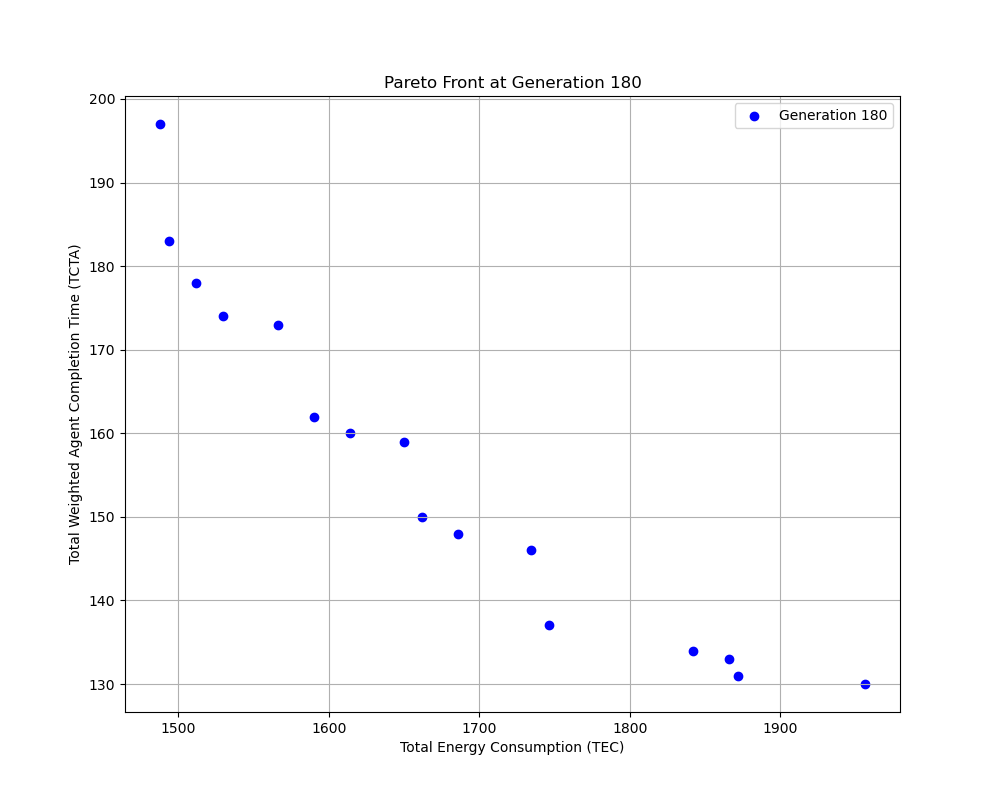
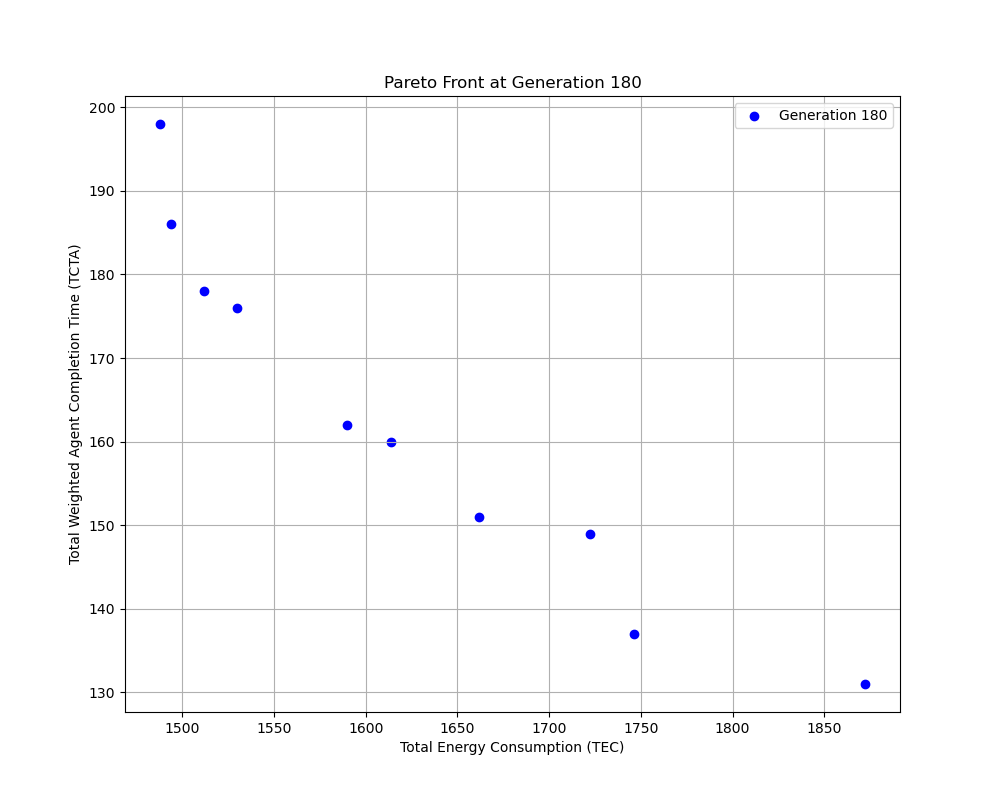
big change for frame

diff --git a/main_algorithm.py b/main_algorithm.py
@@ -57,52 +57,45 @@ class EvolutionaryAlgorithm:
             
             # 判断是否进入精修阶段
             if gen >= self.polishing_phase_start_gen:
-                # 精修阶段: 对当前种群中的每个个体应用强大的局部搜索算子
+                # 精修阶段: 概率性地对种群中的个体应用强大的局部搜索算子
                 polished_offspring = []
                 alpha = self.prob_params.get('destroy_rebuild_alpha', 0.5)
+                prob_polish = self.prob_params.get('prob_polish', 0.4)
                 
-                print(f"精修阶段: 对 {len(self.population)} 个个体应用 Destroy & Rebuild + Right Shift (alpha={alpha})...")
-                for i, parent_sol in enumerate(self.population):
-                    neh_optimized_sol = self.ls_toolkit.destroy_rebuild(parent_sol, alpha)
-                    final_sol = self.ls_toolkit.right_shift(neh_optimized_sol)
-                    polished_offspring.append(final_sol)
+                print(f"精修阶段: 以 {prob_polish*100}% 的概率对个体应用 Destroy & Rebuild + Right Shift...")
+                
+                for parent_sol in self.population:
+                    if np.random.rand() < prob_polish:
+                        # 应用强力优化算子组合
+                        neh_optimized_sol = self.ls_toolkit.destroy_rebuild(parent_sol, alpha)
+                        final_sol = self.ls_toolkit.right_shift(neh_optimized_sol)
+                        polished_offspring.append(final_sol)
+                    else:
+                        # 未被选中的直接进入下一代
+                        polished_offspring.append(parent_sol.copy())
 
-                # 用精修后的解更新外部存档
+                # 用精修后的新解更新外部存档 (注意, polished_offspring中包含了未改变的个体)
                 self._update_archive(polished_offspring)
 
-                # 合并父代与子代种群
-                combined_population = self.population + polished_offspring
+                # 环境选择: 直接将精修/幸存的个体作为新种群
+                # 因为这里的目标是提纯, 而不是扩大搜索, 所以不与父代合并
+                self.population = remove_duplicates(polished_offspring)
                 
-                # 去重
-                deduplicated_population = remove_duplicates(combined_population)
-                
-                print(f"合并与去重: {len(combined_population)} -> {len(deduplicated_population)} 个独特解")
-
-                # NSGA-II 精英选择
-                fronts = non_dominated_sort(deduplicated_population)
-                self.population = selection(fronts, self.pop_size)
-                
-                print(f"精英选择完成, 新种群大小: {len(self.population)}")
+                print(f"精英提纯完成, 新种群大小: {len(self.population)}")
                 print("-" * 50)
             else:
+                # 常规进化阶段
                 offspring_population = self._generate_offspring(gen)
-
-                # 步骤B: 评估子代
-                for sol in offspring_population:
-                    self.decoder.decode(sol)
                 
-                # 步骤B.1: 更新外部存档
+                # 2. 更新外部存档
                 self._update_archive(offspring_population)
-
-                # 步骤C: 合并父代与子代
-                combined_population = self.population + offspring_population
                 
-                # 步骤C.1: 移除重复解
+                # 3. 环境选择 (合并父子代, 去重, NSGA-II选择)
+                combined_population = self.population + offspring_population
                 unique_population = remove_duplicates(combined_population)
-
-                # 步骤D: NSGA-II 环境选择
                 fronts = non_dominated_sort(unique_population)
                 self.population = selection(fronts, self.pop_size)
+
 
             # 定期绘制和保存帕累托前沿图
             if self.plot_params and self.plot_params.get('plot_frequency', 0) > 0 and (gen + 1) % self.plot_params['plot_frequency'] == 0:
@@ -144,73 +137,61 @@ class EvolutionaryAlgorithm:
         self.archive = list(phenotype_unique_solutions.values())
 
     def _generate_offspring(self, current_gen: int) -> List[Solution]:
-        """通过调用工具箱中的算子来生成子代
-           概率性地选择不同的算子
-           注意是两阶段的 第一阶段进行繁殖和改进 第二阶段注入多样性
-            
-        Args:
-            current_gen (int): 当前代数
-
-        Returns:
-            List[Solution]: 生成的子代种群
         """
-        # 动态步长计算
-        progress = current_gen / self.max_generations
+        通过标准的进化流程(交配池、交叉、变异)生成并评估子代种群
+        """
+        # 动态步长
+        progress = current_gen / self.max_generations if self.max_generations > 0 else 0
         bfo_params = self.bfo_toolkit.params
         c_initial = bfo_params.get('C_initial', 0.1)
         c_final = bfo_params.get('C_final', 0.01)
         current_step_size = c_initial - (c_initial - c_final) * progress
-
-        # 定义算子概率
-        prob_crossover = self.prob_params.get('prob_crossover', 0.4)
-        prob_chemotaxis = self.prob_params.get('prob_chemotaxis', 0.2)
-        prob_prefer_agent = self.prob_params.get('prob_prefer_agent', 0.2)
-        prob_right_shift = self.prob_params.get('prob_right_shift', 0.2)
         
-        temp_offspring = []
-        while len(temp_offspring) < self.pop_size:
-            
-            rand_num = np.random.rand()
-            
-            # 交叉操作 (生成两个子代)
-            if rand_num < prob_crossover:
-                p1 = tournament_selection(self.population)
-                p2 = tournament_selection(self.population)
-                child1, child2 = self.bfo_toolkit.reproduction_crossover(p1, p2)
-                temp_offspring.extend([child1, child2])
-            
-            # 趋向操作
-            elif rand_num < prob_crossover + prob_chemotaxis:
-                p1 = tournament_selection(self.population)
-                child = self.bfo_toolkit.chemotaxis(p1, current_step_size)
-                temp_offspring.append(child)
-            
-            # 优势代理优化 (TCTA偏向)
-            elif rand_num < prob_crossover + prob_chemotaxis + prob_prefer_agent:
-                parent = tournament_selection(self.population)
-                child = self.ls_toolkit.prefer_agent(parent)
-                temp_offspring.append(child)
+        # 算子概率
+        prob_crossover = self.prob_params.get('prob_crossover', 0.9)
+        prob_mutation = self.prob_params.get('prob_mutation', 0.2)
+        
+        # 定义好用的轻量级局部搜索/变异算子集合
+        mutation_operators = [
+            lambda sol: self.bfo_toolkit.chemotaxis(sol, current_step_size),
+            self.ls_toolkit.right_shift,
+            self.ls_toolkit.prefer_agent
+        ]
 
-            # 右移优化 (TEC偏向)
-            elif rand_num < prob_crossover + prob_chemotaxis + prob_prefer_agent + prob_right_shift:
-                parent = tournament_selection(self.population)
-                child = self.ls_toolkit.right_shift(parent)
-                temp_offspring.append(child)
-            
+        # 1. 选择: 创建交配池
+        mating_pool = [tournament_selection(self.population) for _ in range(self.pop_size)]
+        
+        # 2. 繁殖: 交叉与变异
+        offspring_from_reproduction = []
+        i = 0
+        while len(offspring_from_reproduction) < self.pop_size:
+            p1 = mating_pool[i]
+            # 确保有p2, 即使种群大小为奇数
+            p2 = mating_pool[i + 1] if i + 1 < self.pop_size else mating_pool[0]
+            i = (i + 2) % self.pop_size # 循环使用交配池
+
+            # 交叉
+            if np.random.rand() < prob_crossover:
+                c1, c2 = self.bfo_toolkit.reproduction_crossover(p1, p2)
             else:
-                p1 = tournament_selection(self.population)
-                child = self.bfo_toolkit.chemotaxis(p1, current_step_size)
-                temp_offspring.append(child)
+                c1, c2 = p1.copy(), p2.copy()
+            
+            # 变异
+            for child in [c1, c2]:
+                if np.random.rand() < prob_mutation:
+                    # 随机选择一个变异算子进行深度优化
+                    operator = np.random.choice(mutation_operators)
+                    mutated_child = operator(child)
+                    offspring_from_reproduction.append(mutated_child)
+                else:
+                    offspring_from_reproduction.append(child)
 
         # 确保种群大小精确
-        temp_offspring = temp_offspring[:self.pop_size]
-        
-        # 在生成后, 需要先对这个临时种群进行评估, 以便迁徙算子使用
-        for sol in temp_offspring:
-            self.decoder.decode(sol)
+        offspring_population = offspring_from_reproduction[:self.pop_size]
 
-        # 多样性注入
-        # 将整个临时子代种群送入种群级别的迁徙算子
-        final_offspring = self.bfo_toolkit.migration(temp_offspring)
-        
-        return final_offspring
+        # 3. 评估
+        for sol in offspring_population:
+            if sol.objectives is None:
+                self.decoder.decode(sol)
+
+        return offspring_population

diff --git a/operators.py b/operators.py
@@ -16,38 +16,38 @@ class BFO_Operators:
         
     def chemotaxis(self, parent_solution: Solution, current_step_size: float) -> Solution:
         """
-        趋向操作: 以一个父代解为起点, 进行Mmax步的局部搜索, 返回最终找到的解
-
-        Args:
-            parent_solution (Solution): 父代解
-            current_step_size (float): 当前步长
-
-        Returns:
-            Solution: 最终找到的解
+        趋向操作: 以一个父代解为起点, 进行Mmax步的迭代局部搜索, 返回最终找到的最优解.
+        这是一个迭代改进的过程, 每一步都在当前找到的最优解的基础上进行探索.
         """
         m_max = self.params.get('Mmax', 10)
         put_off_mutation_prob = self.params.get('put_off_mutation_prob', 0.1)
         put_off_mutation_strength = self.params.get('put_off_mutation_strength', 1)
         put_off_regression_prob = self.params.get('put_off_regression_prob', 0.7)
 
-        current_sol = parent_solution.copy()
+        # 1. 初始化: 当前最优解就是父代
+        current_best_sol = parent_solution.copy()
+        # 确保初始解已被评估
+        if current_best_sol.objectives is None:
+            self.decoder.decode(current_best_sol)
         
-        # BFO的位置编码, 仅在此算子内部临时使用
+        # BFO的位置编码, 用于探索邻域
         positions = np.random.uniform(-1, 1, size=(self.problem.num_jobs, 2))
         
+        # 2. 迭代搜索
         for _ in range(m_max):
-            original_sol = current_sol.copy()
-            
-            # 1. 生成一个候选解
-            # 1a. 翻滚与游泳, 生成新序列
+            # 2a. 生成一个基于当前最优解的候选解
+            # 翻滚与游泳, 生成新序列 (探索邻域)
             theta = np.random.uniform(0, 2 * np.pi, self.problem.num_jobs)
             deta = np.column_stack([np.cos(theta), np.sin(theta)])
-            positions += current_step_size * deta
-            distances = np.linalg.norm(positions, axis=1)
+            new_positions = positions + current_step_size * deta
+            
+            # 使用新的位置向量生成序列. 注意: 我们这里不直接使用 new_sequence = np.argsort(distances)
+            # 而是继续使用 BFO 思想, 从 new_positions 生成序列, 这样可以保留方向信息.
+            distances = np.linalg.norm(new_positions, axis=1)
             new_sequence = np.argsort(distances)
             
-            # 1b. 有偏向性地扰动put_off矩阵
-            new_put_off = current_sol.put_off.copy()
+            # 有偏向性地扰动put_off矩阵
+            new_put_off = current_best_sol.put_off.copy() # 从当前最优解的put_off开始
             if np.random.rand() < put_off_mutation_prob:
                 for _ in range(put_off_mutation_strength):
                     job_idx = np.random.randint(self.problem.num_jobs)
@@ -58,18 +58,18 @@ class BFO_Operators:
                     else:
                         new_put_off[job_idx, machine_idx] += 1
                         
-            # 构造并评估候选解 (final_schedule=None), 激活put_off
+            # 构造并评估候选解
             trial_sol = Solution(sequence=new_sequence, put_off=new_put_off, final_schedule=None)
             self.decoder.decode(trial_sol)
 
-            # 2. 基于Pareto支配关系决定是否接受移动
-            if not is_dominated(current_sol, trial_sol):
-                # 如果新解支配当前解, 则接受新解
-                current_sol = trial_sol
-            else:
-                positions -= current_step_size * deta
+            # 2b. 基于Pareto支配关系决定是否接受移动
+            # 如果候选解支配当前最优解, 则更新最优解和探索位置
+            if is_dominated(trial_sol, current_best_sol):
+                current_best_sol = trial_sol
+                positions = new_positions # 接受移动, 更新探索的中心点
+            # 否则, 不更新, 留在原地, positions不变, 在下一次循环从原位置继续探索
             
-        return current_sol
+        return current_best_sol
     
     def reproduction_crossover(self, parent1: Solution, parent2: Solution) -> tuple:
         """复制/交叉操作

diff --git a/plot.py b/plot.py
@@ -71,17 +71,18 @@ def plot_comparison(instance_base_name: str):
         os.makedirs(output_dir)
     
     output_filename = os.path.join(output_dir, f'comparison_{instance_base_name}.png')
-    plt.savefig(output_filename, dpi=300, bbox_inches='tight')
+    # plt.savefig(output_filename, dpi=300, bbox_inches='tight')
     
     plt.show()
 
 
 if __name__ == '__main__':
 
-    instances = ['3M7-1', '3M7-2', '3M7-3','3M7-4','3M7-5',
-                 '3M8-1', '3M8-2', '3M8-3','3M8-4','3M8-5',
-                 '3M9-1', '3M9-2', '3M9-3','3M9-4','3M9-5',
-                 '3M10-5', '3M10-11', '3M10-12','3M10-13','3M10-14']
+    # instances = ['3M7-1', '3M7-2', '3M7-3','3M7-4','3M7-5',
+    #              '3M8-1', '3M8-2', '3M8-3','3M8-4','3M8-5',
+    #              '3M9-1', '3M9-2', '3M9-3','3M9-4','3M9-5',
+    #              '3M10-5', '3M10-11', '3M10-12','3M10-13','3M10-14']
                  
+    instances = ['3M7-3']
     for instance in instances:
         plot_comparison(instance)

diff --git a/parameters.py b/parameters.py
@@ -1,6 +1,6 @@
 CONFIG = {
-    # 'DATA_FILE_PATH': "data2/3M10N-14.txt",  # 数据文件路径
-    'DATA_FILE_PATH': "dataset/data_A3_J400_M4_1.txt",
+    'DATA_FILE_PATH': "data2/3M7N-3.txt",  # 数据文件路径
+    # 'DATA_FILE_PATH': "dataset/data_A3_J400_M4_1.txt",
     'PLOT_PARAMS': {
         'plot_frequency': 10, # 绘图频率
     },
@@ -32,5 +32,7 @@ CONFIG = {
         'prob_right_shift': 0.2, # 右移概率
         'polishing_phase_gens': 30, # 精修阶段代数
         'destroy_rebuild_alpha': 0.5, # 破坏重建比例
+        'prob_polish': 0.4, # 在精修阶段应用强力局部搜索的概率
+        'prob_mutation': 0.2, # 常规进化中应用变异算子的概率
     }
 }

diff --git a/main.py b/main.py
@@ -13,7 +13,7 @@ def main():
     data_file_path = CONFIG['DATA_FILE_PATH']
     
     try:
-        problem_def = load_problem_from_file(data_file_path)
+        problem_def = load_problem_g_format(data_file_path)
     except FileNotFoundError:
         print(f"错误: 数据文件未找到, 请检查路径: {data_file_path}")
         return
